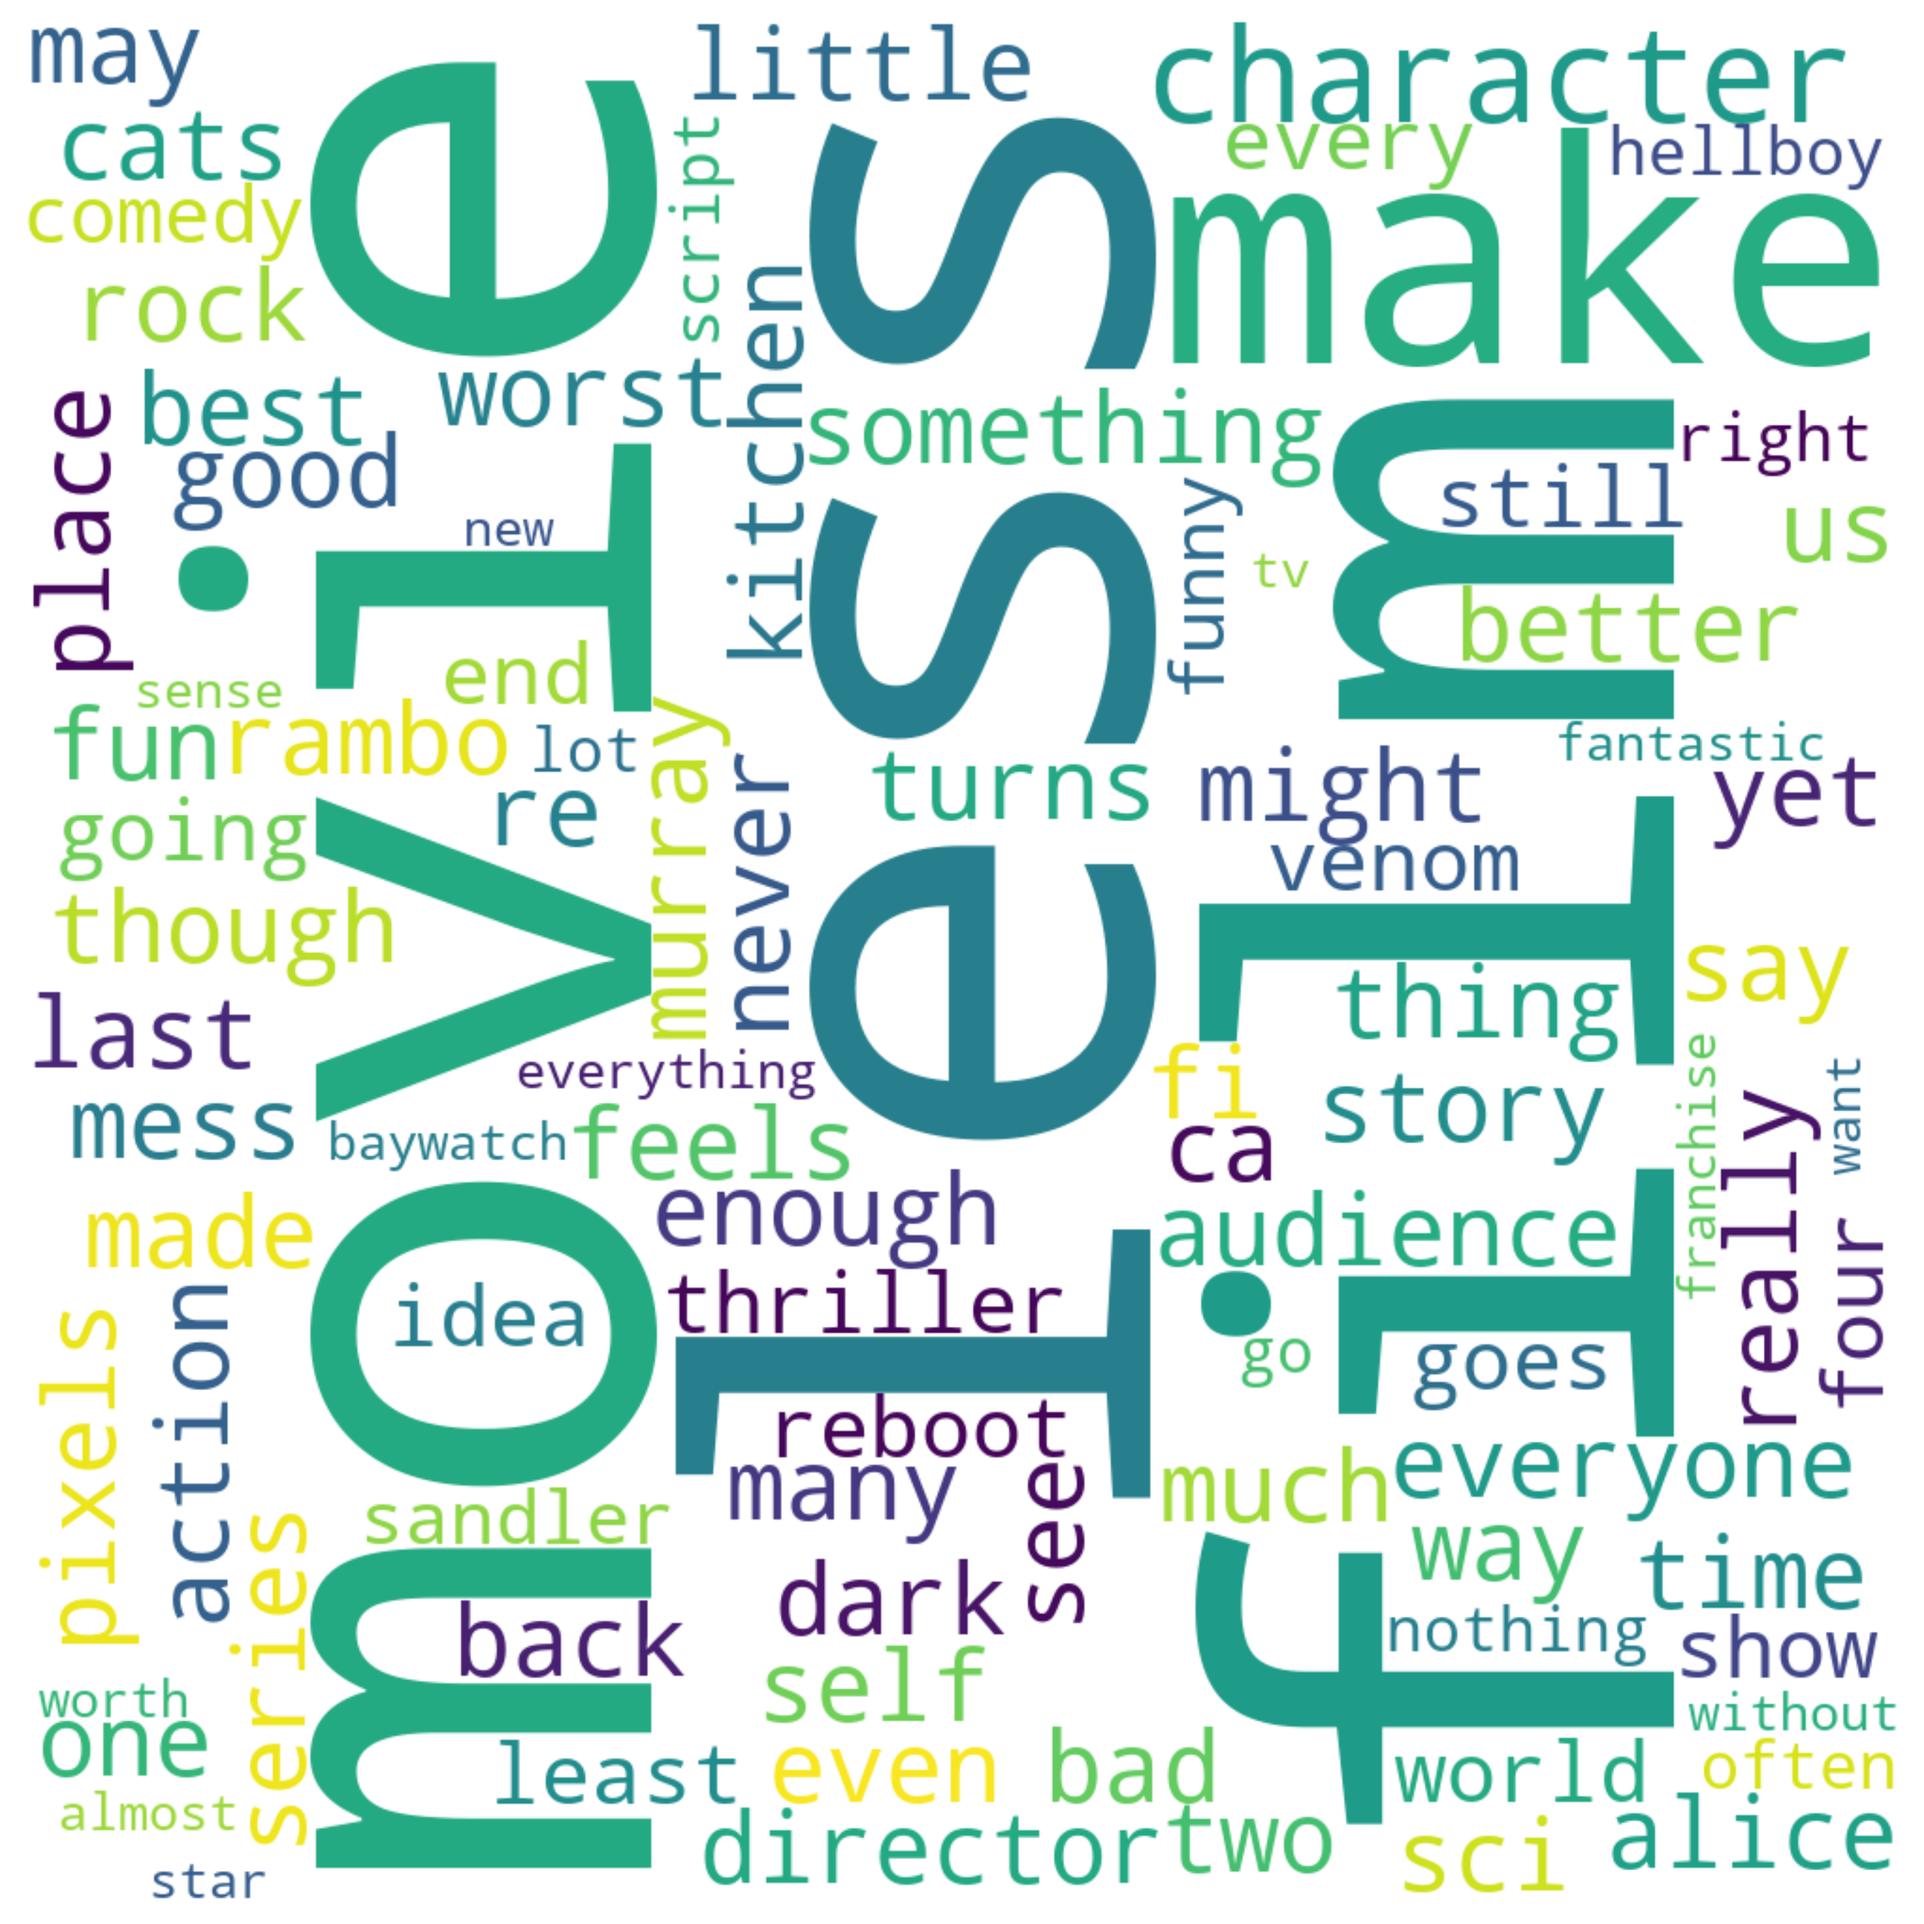
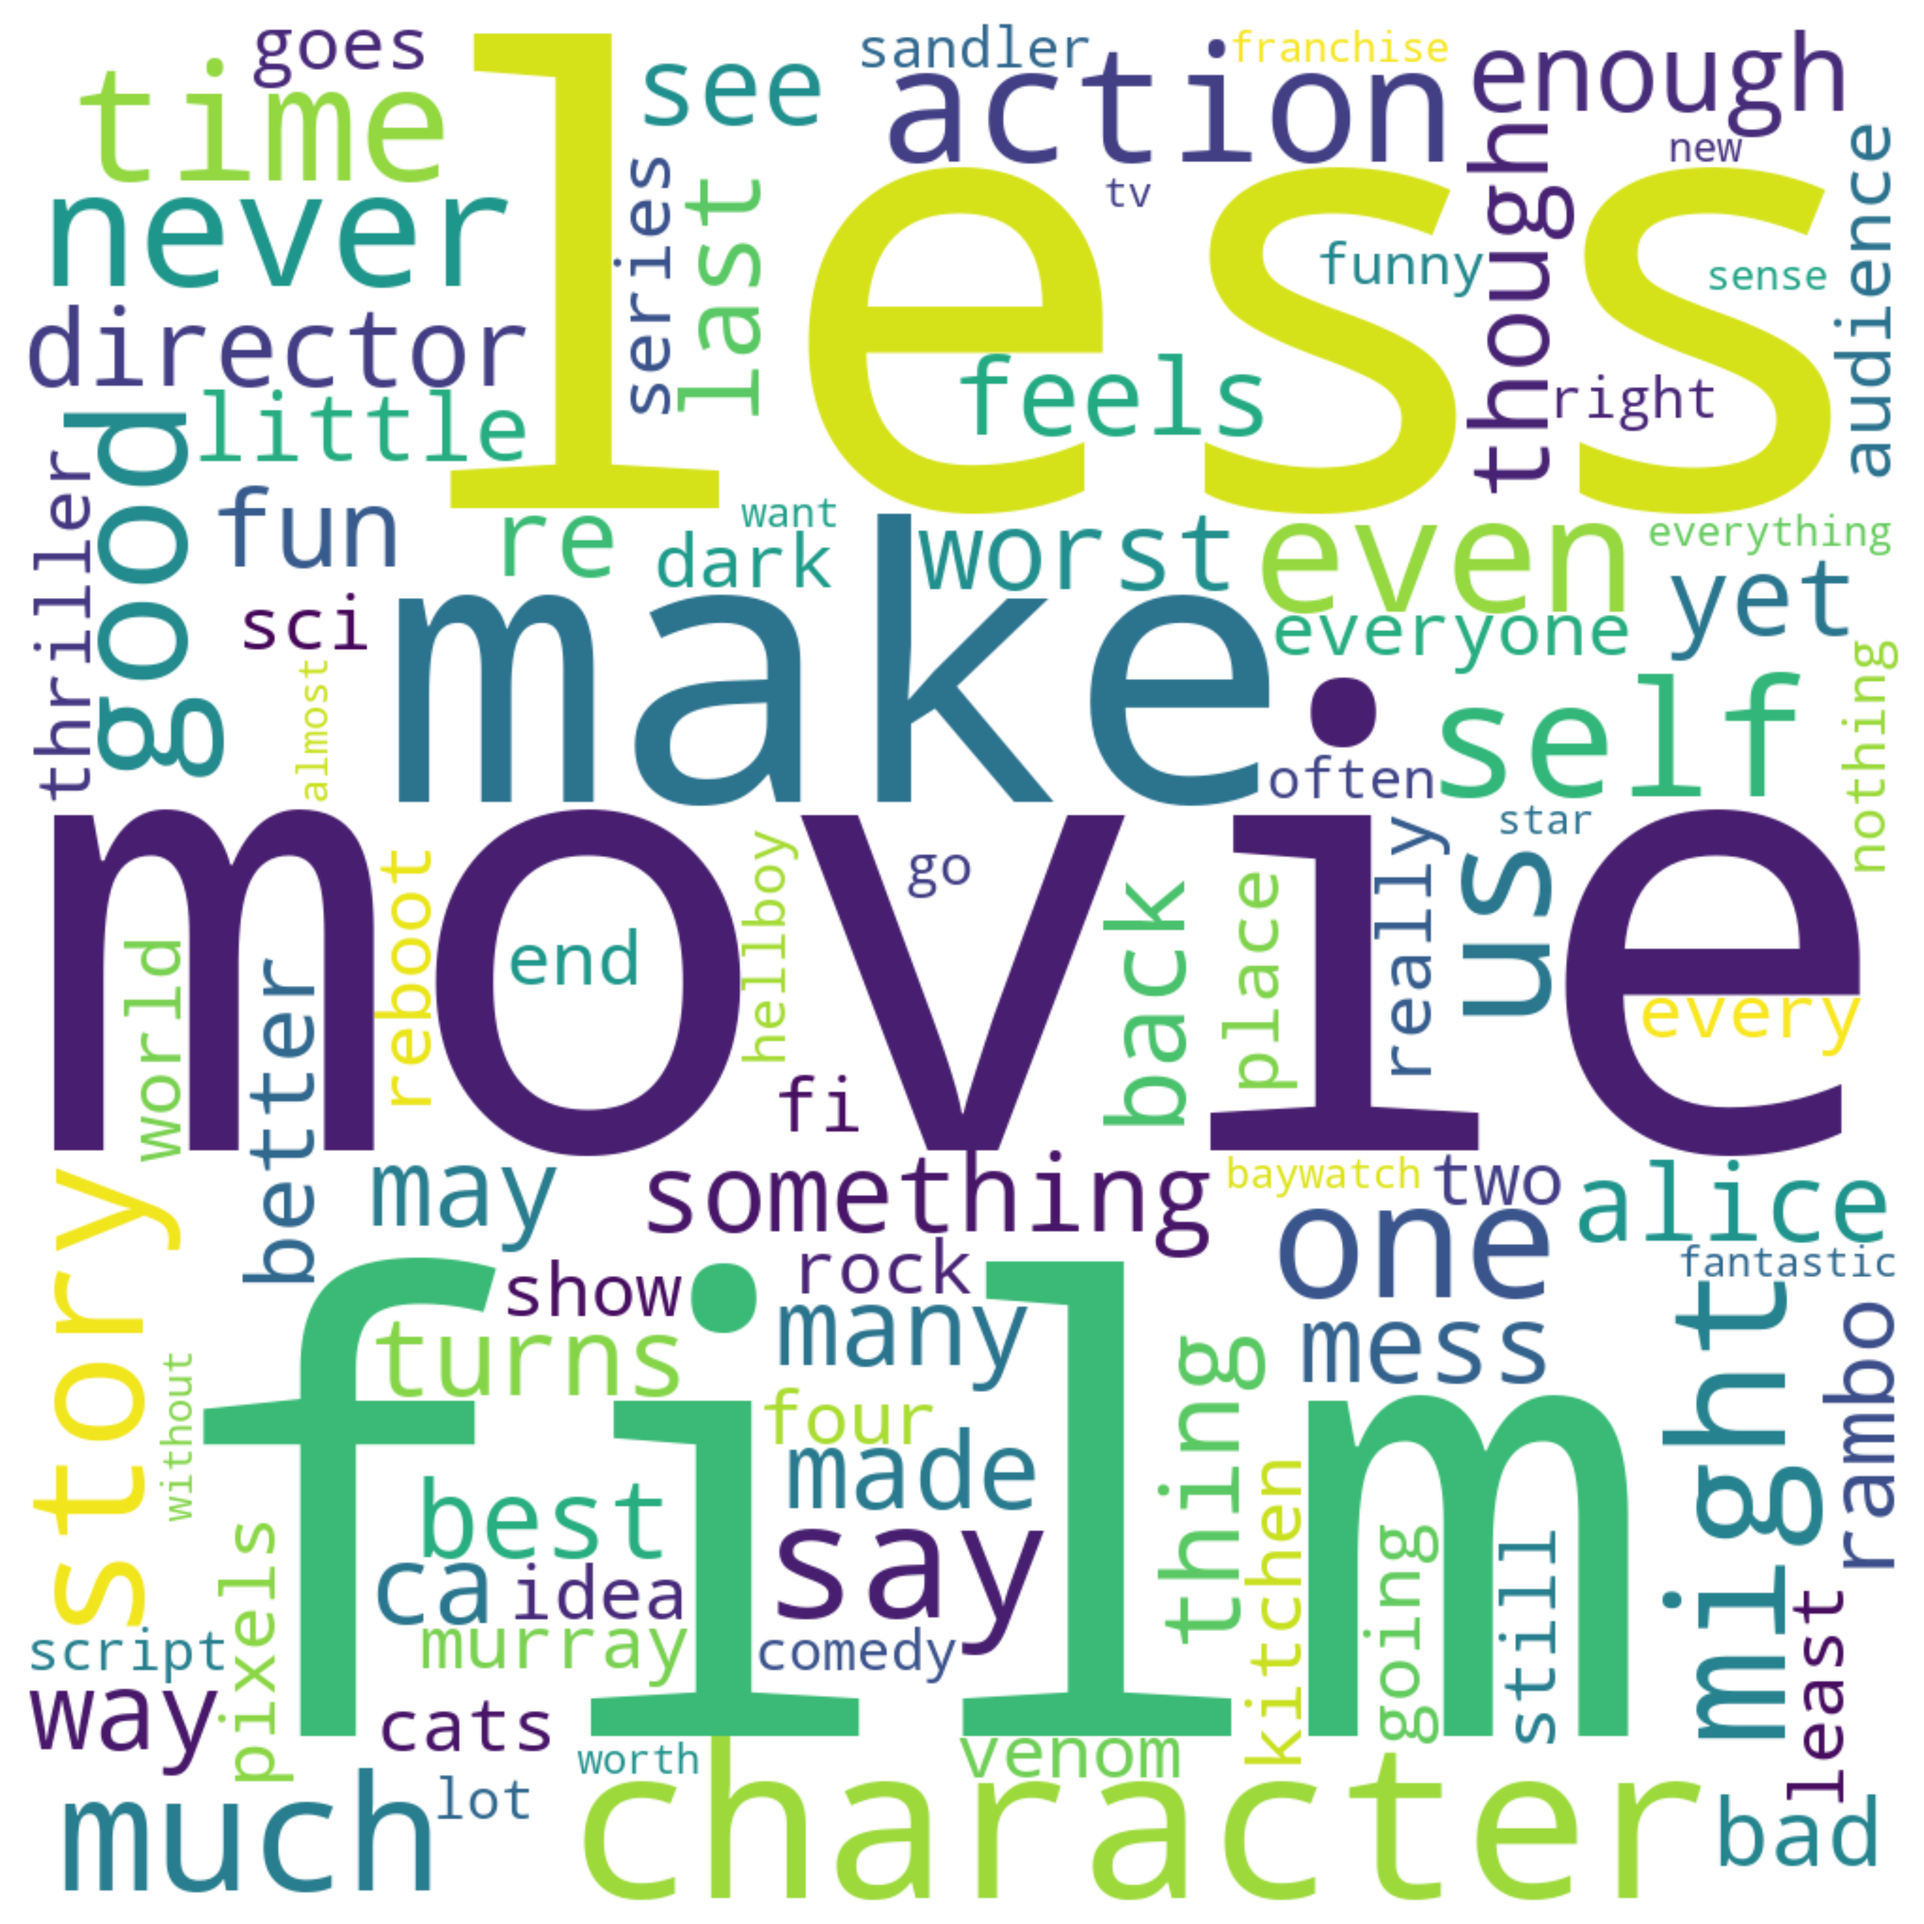
updated final final code quality

diff --git a/main.py b/main.py
@@ -208,7 +208,7 @@ def wordcloud_positive(movie_reviews: pd.DataFrame,
     positive_freq = FreqDist(positive_words)
 
     # Find the top 100 most common words in positive reviews
-    top_100_positive_words = positive_freq.most_common(75)
+    top_100_positive_words = positive_freq.most_common(100)
 
     # Extract the words and their frequencies
     positive_words, frequency = zip(*top_100_positive_words)
